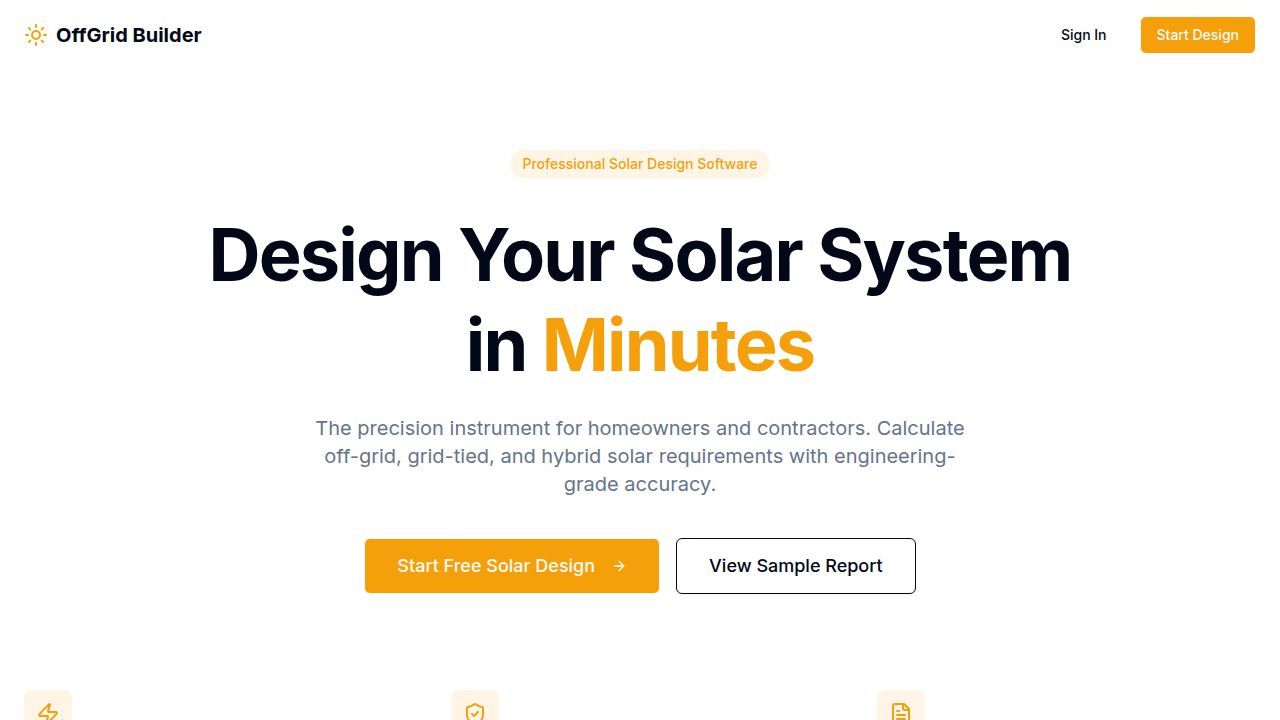
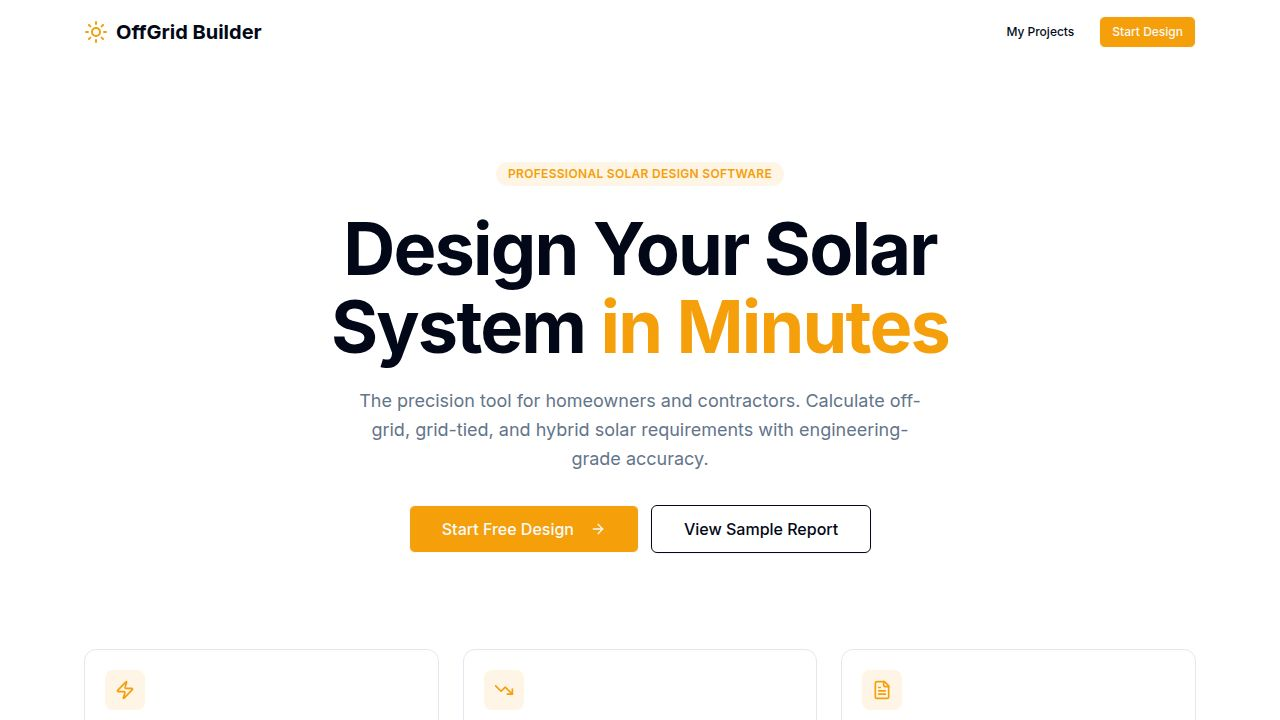
Integrate real PVWatts data for accurate solar production estimates
Update PVWatts integration to use latitude/longitude from geocoding ZIP codes or state centroids, replacing deprecated address parameter.

Replit-Commit-Author: Agent
Replit-Commit-Session-Id: 5b561019-d4b3-4bcf-bc06-b2226de8a129
Replit-Commit-Checkpoint-Type: full_checkpoint
Replit-Commit-Event-Id: 27923e05-7887-43d5-aa83-0c087bcac1e5
Replit-Commit-Screenshot-Url: https://storage.googleapis.com/screenshot-production-us-central1/78cfd8eb-29ba-4fbd-9b72-017ba0768173/5b561019-d4b3-4bcf-bc06-b2226de8a129/ecLHUnh
Replit-Helium-Checkpoint-Created: true

diff --git a/artifacts/api-server/src/lib/pvwatts.ts b/artifacts/api-server/src/lib/pvwatts.ts
@@ -13,28 +13,82 @@ export interface PVWattsParams {
 }
 
 export interface PVWattsResult {
-  acMonthly: number[];       // 12 values, monthly AC production kWh
-  acAnnual: number;          // annual AC production kWh
-  solradMonthly: number[];   // 12 values, monthly solar irradiance kWh/m²/day
-  solradAnnual: number;      // annual average solar irradiance kWh/m²/day (= peak sun hours)
-  capacityFactor: number;    // capacity factor %
+  acMonthly: number[];
+  acAnnual: number;
+  solradMonthly: number[];
+  solradAnnual: number;
+  capacityFactor: number;
   source: "pvwatts";
+}
+
+// State centroid coordinates — fallback when Nominatim geocoding fails
+const STATE_CENTROIDS: Record<string, { lat: number; lon: number }> = {
+  AL: { lat: 32.8, lon: -86.8 }, AK: { lat: 64.2, lon: -153.4 },
+  AZ: { lat: 34.3, lon: -111.1 }, AR: { lat: 34.8, lon: -92.2 },
+  CA: { lat: 36.8, lon: -119.4 }, CO: { lat: 39.1, lon: -105.4 },
+  CT: { lat: 41.6, lon: -72.7 },  DE: { lat: 39.0, lon: -75.5 },
+  FL: { lat: 27.8, lon: -81.6 },  GA: { lat: 32.2, lon: -83.4 },
+  HI: { lat: 20.3, lon: -156.4 }, ID: { lat: 44.4, lon: -114.5 },
+  IL: { lat: 40.0, lon: -89.2 },  IN: { lat: 40.0, lon: -86.3 },
+  IA: { lat: 42.0, lon: -93.2 },  KS: { lat: 38.5, lon: -98.4 },
+  KY: { lat: 37.7, lon: -84.9 },  LA: { lat: 31.2, lon: -91.8 },
+  ME: { lat: 45.4, lon: -69.0 },  MD: { lat: 39.1, lon: -76.8 },
+  MA: { lat: 42.2, lon: -71.5 },  MI: { lat: 44.3, lon: -85.4 },
+  MN: { lat: 46.4, lon: -93.1 },  MS: { lat: 32.7, lon: -89.7 },
+  MO: { lat: 38.5, lon: -92.5 },  MT: { lat: 46.9, lon: -110.5 },
+  NE: { lat: 41.5, lon: -99.9 },  NV: { lat: 38.5, lon: -117.1 },
+  NH: { lat: 44.0, lon: -71.6 },  NJ: { lat: 40.1, lon: -74.4 },
+  NM: { lat: 34.5, lon: -106.2 }, NY: { lat: 43.0, lon: -75.5 },
+  NC: { lat: 35.6, lon: -79.8 },  ND: { lat: 47.5, lon: -100.5 },
+  OH: { lat: 40.4, lon: -82.8 },  OK: { lat: 35.6, lon: -96.9 },
+  OR: { lat: 44.1, lon: -120.5 }, PA: { lat: 41.2, lon: -77.2 },
+  RI: { lat: 41.7, lon: -71.5 },  SC: { lat: 33.9, lon: -80.9 },
+  SD: { lat: 44.4, lon: -100.2 }, TN: { lat: 35.9, lon: -86.7 },
+  TX: { lat: 31.5, lon: -99.3 },  UT: { lat: 39.3, lon: -111.1 },
+  VT: { lat: 44.1, lon: -72.7 },  VA: { lat: 37.8, lon: -78.2 },
+  WA: { lat: 47.4, lon: -120.5 }, WV: { lat: 38.6, lon: -80.6 },
+  WI: { lat: 44.3, lon: -89.6 },  WY: { lat: 43.0, lon: -107.6 },
+};
+
+/** Geocode ZIP/address to lat/lon via Nominatim. Returns null on failure. */
+async function geocode(zip: string, city: string, state: string): Promise<{ lat: number; lon: number } | null> {
+  // Try ZIP code first (most precise), then city+state
+  const queries = zip ? [`${zip}, US`, `${city}, ${state}, US`] : [`${city}, ${state}, US`];
+
+  for (const q of queries) {
+    try {
+      const url = `https://nominatim.openstreetmap.org/search?q=${encodeURIComponent(q)}&format=json&limit=1&countrycodes=us`;
+      const controller = new AbortController();
+      const timeout = setTimeout(() => controller.abort(), 6_000);
+      const resp = await fetch(url, {
+        signal: controller.signal,
+        headers: { "User-Agent": "OffGridSolarBuilder/1.0" },
+      });
+      clearTimeout(timeout);
+
+      if (!resp.ok) continue;
+      const data = await resp.json() as Array<{ lat: string; lon: string }>;
+      if (data.length > 0) {
+        return { lat: parseFloat(data[0].lat), lon: parseFloat(data[0].lon) };
+      }
+    } catch {
+      // continue to next query or fall through to state centroid
+    }
+  }
+  return null;
 }
 
 /** Map roof pitch string to tilt angle in degrees */
 function pitchToTilt(pitch: string): number {
   if (!pitch) return 20;
-  // Numeric string in degrees
   const num = parseFloat(pitch);
   if (!isNaN(num) && num > 0 && num <= 90) return num;
-  // Fraction like "4/12"
   const fracMatch = pitch.match(/^(\d+)\s*\/\s*(\d+)$/);
   if (fracMatch) {
     const rise = parseFloat(fracMatch[1]);
     const run = parseFloat(fracMatch[2]);
     return Math.round((Math.atan(rise / run) * 180) / Math.PI);
   }
-  // Named values
   const named: Record<string, number> = {
     flat: 5, low: 10, medium: 20, steep: 30, fixed: 20,
     "single-axis": 20, "dual-axis": 20,
@@ -42,7 +96,7 @@ function pitchToTilt(pitch: string): number {
   return named[pitch.toLowerCase()] ?? 20;
 }
 
-/** Map roof direction string to azimuth degrees (0=N, 180=S) */
+/** Map roof direction to azimuth degrees (0=N, 180=S) */
 function directionToAzimuth(dir: string): number {
   const map: Record<string, number> = {
     North: 0, NE: 45, East: 90, SE: 135,
@@ -53,18 +107,18 @@ function directionToAzimuth(dir: string): number {
 
 /**
  * Map installation/tracking type to PVWatts array_type:
- * 0 = fixed open rack, 1 = fixed roof mount, 2 = 1-axis, 3 = 1-axis backtracking, 4 = 2-axis
+ * 0=fixed open rack, 1=fixed roof mount, 2=1-axis, 3=1-axis backtracking, 4=2-axis
  */
 function installToArrayType(installationType: string, roofPitch: string): number {
   if (installationType === "roof") return 1;
   if (roofPitch === "single-axis") return 2;
   if (roofPitch === "dual-axis") return 4;
-  return 0; // ground, pole, carport → open rack
+  return 0;
 }
 
 /**
  * Call NREL PVWatts v8 API and return production estimates.
- * Returns null if the API key is missing or the call fails — callers should fall back to state estimates.
+ * Returns null if the API key is missing or the call fails — callers fall back to state estimates.
  */
 export async function fetchPVWatts(params: PVWattsParams): Promise<PVWattsResult | null> {
   const apiKey = process.env["PVWATTS_API_KEY"];
@@ -73,14 +127,22 @@ export async function fetchPVWatts(params: PVWattsParams): Promise<PVWattsResult
     return null;
   }
 
+  // Resolve lat/lon — PVWatts v8 no longer accepts 'address' parameter (deprecated 2025-02-25)
+  let coords = await geocode(params.zip, params.city, params.state);
+  if (!coords) {
+    const centroid = STATE_CENTROIDS[params.state?.toUpperCase()];
+    if (centroid) {
+      logger.info({ state: params.state }, "Nominatim geocoding failed — using state centroid");
+      coords = centroid;
+    } else {
+      logger.warn({ state: params.state }, "No coordinates available for PVWatts — using fallback");
+      return null;
+    }
+  }
+
   const tilt = pitchToTilt(params.roofPitch);
   const azimuth = directionToAzimuth(params.roofDirection);
   const arrayType = installToArrayType(params.installationType, params.roofPitch);
-
-  // Build location string: prefer ZIP, fall back to city+state
-  const location = params.zip
-    ? params.zip
-    : `${params.city}, ${params.state}`;
 
   const url = new URL("https://developer.nrel.gov/api/pvwatts/v8.json");
   url.searchParams.set("api_key", apiKey);
@@ -90,13 +152,18 @@ export async function fetchPVWatts(params: PVWattsParams): Promise<PVWattsResult
   url.searchParams.set("array_type", arrayType.toString());
   url.searchParams.set("tilt", tilt.toString());
   url.searchParams.set("azimuth", azimuth.toString());
-  url.searchParams.set("address", location);
+  url.searchParams.set("lat", coords.lat.toFixed(4));
+  url.searchParams.set("lon", coords.lon.toFixed(4));
   url.searchParams.set("timeframe", "monthly");
+
+  logger.info(
+    { lat: coords.lat, lon: coords.lon, tilt, azimuth, arrayType, system_capacity: params.systemCapacityKw },
+    "Calling PVWatts v8 API"
+  );
 
   try {
     const controller = new AbortController();
-    const timeout = setTimeout(() => controller.abort(), 10_000);
-
+    const timeout = setTimeout(() => controller.abort(), 12_000);
     const resp = await fetch(url.toString(), { signal: controller.signal });
     clearTimeout(timeout);
 
@@ -107,6 +174,11 @@ export async function fetchPVWatts(params: PVWattsParams): Promise<PVWattsResult
     }
 
     const json = await resp.json() as Record<string, unknown>;
+    const errors = json["errors"] as string[] | undefined;
+    if (errors && errors.length > 0) {
+      logger.warn({ errors }, "PVWatts API returned errors — using fallback");
+      return null;
+    }
 
     const outputs = json["outputs"] as Record<string, unknown> | undefined;
     if (!outputs) {
@@ -127,6 +199,11 @@ export async function fetchPVWatts(params: PVWattsParams): Promise<PVWattsResult
       logger.warn({ outputs }, "PVWatts response incomplete — using fallback");
       return null;
     }
+
+    logger.info(
+      { acAnnual, solradAnnual, capacityFactor },
+      "PVWatts API success"
+    );
 
     return {
       acMonthly: acMonthly.map((v) => Math.round(v)),